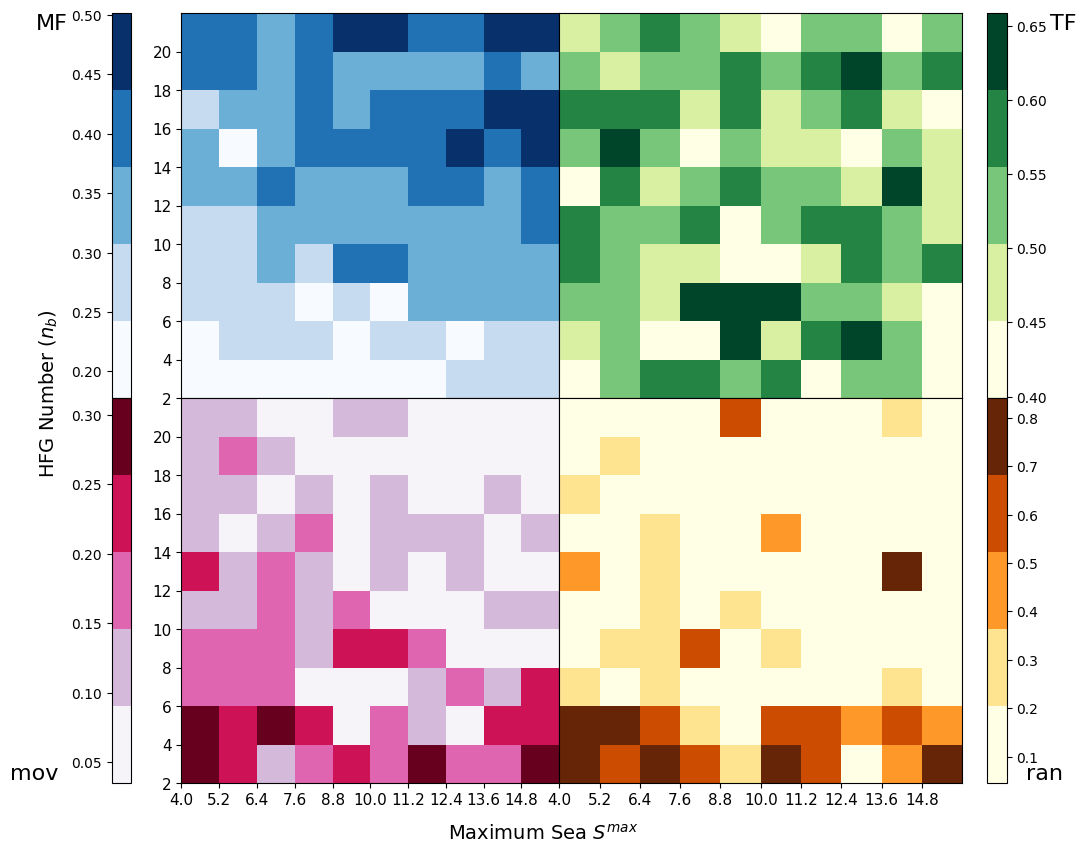
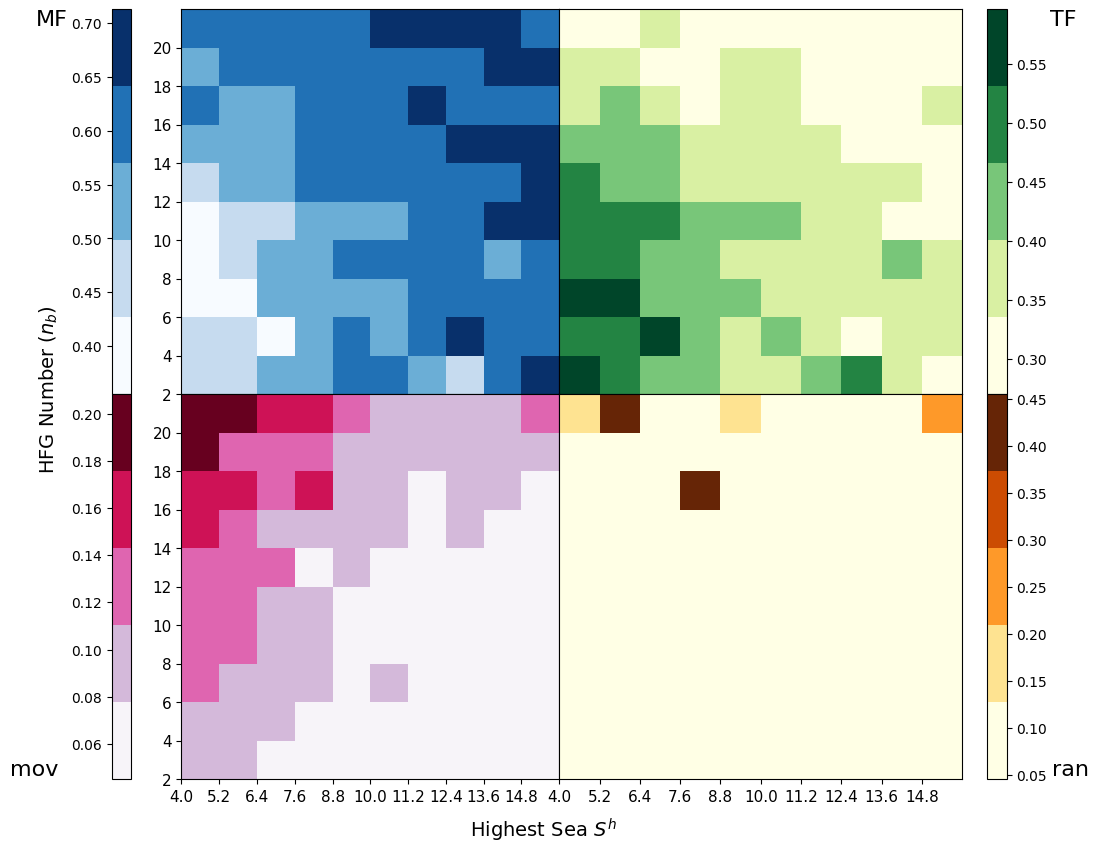
tiding up and debugging triangle plot

diff --git a/scripts/triangular_plot.py b/scripts/triangular_plot.py
@@ -8,20 +8,87 @@ import matplotlib.cm as cm
 import resource_movement_grids as rmg
 import itertools
 
-def prepare_gridPlot(ax, lim, M, which_par):
+def prepare_gridPlot(ax, lim, which_pars, i, j, ii):
 
-    max_matrice = max(map(max, M))
-    min_matrice = min(map(min, M))
-  
-    '''
-    if which_par == 'land_productivity':
+
+    if which_pars[0] == 'land_productivity':
+        y =  np.arange(lim.min_land_prod, lim.max_land_prod, lim.prod_step)
+        
+        ny = y.shape[0]
+        n_ylabels = len(y)-1
+        step_y = int(ny / (n_ylabels - 1))
+        y_positions = np.arange(0, ny, step_y )
+        float_formatter = "{:.2f}".format
+        np.set_printoptions(formatter={'float_kind':float_formatter})
+        y_labels = y[::step_y]
+        for i,yy in enumerate(y):
+            y_labels[i] = "{:.2f}".format(yy)
+
+    elif which_pars[0] == 'high_land':
+        y =  np.arange(lim.high_land_min, lim.high_land_max, lim.Lhigh_step)
+
+        ny = y.shape[0]
+        n_ylabels = len(y)-1
+        step_y = int(ny / (n_ylabels - 1))
+        y_positions = np.arange(0, ny, step_y )
+        y_labels = y[::step_y]
+
+    elif which_pars[0] == 'tidal_deluge': 
+        y =  np.arange(lim.min_tidal_deluge, lim.max_tidal_deluge, lim.tidal_deluge_step)
+
+        ny = y.shape[0]
+        n_ylabels = len(y)-1
+        step_y = int(ny / (n_ylabels - 1))
+        y_positions = np.arange(0, ny, step_y )
+        float_formatter = "{:.2f}".format
+        np.set_printoptions(formatter={'float_kind':float_formatter})
+        y_labels = y[::step_y]
+        for i,yy in enumerate(y):
+            y_labels[i] = "{:.2f}".format(yy)
+
+    elif which_pars[0] == 'high_sea':    
+        y =  np.arange(lim.high_sea_min, lim.high_sea_max, lim.high_sea_step)
+
+        ny = y.shape[0]
+        n_ylabels = len(y)-1
+        step_y = int(ny / (n_ylabels - 1))
+        y_positions = np.arange(0, ny, step_y )
+        float_formatter = "{:1f}".format
+        np.set_printoptions(formatter={'float_kind':float_formatter})
+        y_labels = y[::step_y]
+        for i,yy in enumerate(y):
+            y_labels[i] = "{:1f}".format(yy)
+
+    elif which_pars[0] == 'burners_number':
+        y =  np.arange(lim.min_consumers, lim.max_consumers, lim.con_step)
+
+        ny = y.shape[0]
+        n_ylabels = len(y)-1
+        step_y = int(ny / (n_ylabels - 1))
+        y_positions = np.arange(0, ny, step_y )
+        y_labels = y[::step_y]
+
+    else:
+        print('Error: unknown parameter')
+        return
+    
+    ax.yaxis.set_label_position("right")
+    ax.yaxis.tick_right()
+
+    if which_pars[1] == 'land_productivity':
         x =  np.arange(lim.min_land_prod, lim.max_land_prod, lim.prod_step)
-    elif which_par == 'high_land':
+    elif which_pars[1] == 'high_land':
         x =  np.arange(lim.high_land_min, lim.high_land_max, lim.Lhigh_step)
-    elif which_par == 'tidal_deluge': 
+    elif which_pars[1] == 'tidal_deluge': 
         x =  np.arange(lim.min_tidal_deluge, lim.max_tidal_deluge, lim.tidal_deluge_step)
-    elif which_par == 'high_sea':    
+    elif which_pars[1] == 'high_sea':    
         x =  np.arange(lim.high_sea_min, lim.high_sea_max, lim.high_sea_step)
+    elif which_pars[1] == 'burners_number':
+        x =  np.arange(lim.min_consumers, lim.max_consumers, lim.con_step)
+    else:
+        print('Error: unknown parameter')
+        return
+        
 
     nx = x.shape[0]
     n_labels = len(x)-1
@@ -33,21 +100,22 @@ def prepare_gridPlot(ax, lim, M, which_par):
     for i,xx in enumerate(x):
         x_labels[i] = "{:.2f}".format(xx)
 
-    #ticks_y = ticker.FuncFormatter(lambda y, pos: '{0:.1f}'.format(y))
-    #ax.yaxis.set_major_formatter(ticks_y)
+    ax.xaxis.set_label_position("top")
+    ax.xaxis.tick_top()
 
-    y =  np.arange(lim.min_consumers, lim.max_consumers, lim.con_step)
-    ny = y.shape[0]
-    n_ylabels = len(y)-1
-    step_y = int(ny / (n_ylabels - 1))
-    y_positions = np.arange(0, ny, step_y )
-    y_labels = y[::step_y]
-    #ticks_y = ticker.FuncFormatter(lambda y, pos: '{0:.1f}'.format(y))
-    #ax.yaxis.set_major_formatter(ticks_y)
-    '''
 
-    ax.set_xticks([])
-    ax.set_yticks([])
+    ax.set_yticks(y_positions, y_labels)
+    ax.set_xticks(x_positions, x_labels, rotation=90, ha='left')
+    
+
+    if i < 10 :#
+        #ax.set_xticks([])
+        ax.set_yticks([])
+
+    if ii > 3:#
+        print ('iiiii', ii)
+        ax.set_xticks([])
+
    
     return ax
 
@@ -77,7 +145,7 @@ def triangle_plotSeaLandJumps(par, lim, nom, which_tria):
     all_pairs = list(itertools.combinations(par.par_names, 2))
     
     num_matrices = int(len(all_pairs)/2)
-    fig, axes = plt.subplots(num_matrices - 1, num_matrices - 1, figsize=(12, 10), constrained_layout=True)
+    fig, axes = plt.subplots(num_matrices - 1, num_matrices - 1, figsize=(12, 10))#, constrained_layout=True
     
     cmaps = { 'MF':cm.get_cmap('Blues', 5), 'TF':cm.get_cmap('YlGn', 5), 'mov':cm.get_cmap('PuRd', 5) ,'rad':cm.get_cmap('YlOrBr', 5) }
     which_ind = {'MF':0, 'TF':1, 'mov':2, 'rad':3}
@@ -91,19 +159,19 @@ def triangle_plotSeaLandJumps(par, lim, nom, which_tria):
         for j in range(i + 1, num_matrices):
             # Get the current subplot
             ax = axes[i, j - 1] if j - 1 < len(axes[i]) else None
-            print('we are in pair index', ii)
+            
             if ax:
+                print('we are in pair index', ii)
                 # Load data for the parameter pair
                 print ('Loading data for',   all_pairs[ii])
                 which_pars = all_pairs[ii]
                 save_name = rmg.name_files(par, lim, which_pars)
                 Mats = np.load(par.data_dir + nom + '_' + save_name, allow_pickle=True)
                 
-                ax = prepare_gridPlot(ax, lim, Mats[which_ind[which_tria]], which_pars)
+                ax = prepare_gridPlot(ax, lim, which_pars, i, j-1, ii)
                 normalize = matplotlib.colors.Normalize(vmin=min_matrice, vmax=max_matrice)
                 mesh = ax.pcolormesh(Mats[which_ind[which_tria]], cmap = cmaps[which_tria], norm = normalize)
-                fig.colorbar(mesh)
-                #plt.xticks(x_positions, x_labels)
+
             else:
                 # Hide unused subplots
                 axes[i, j - 1].axis('off')
@@ -114,10 +182,18 @@ def triangle_plotSeaLandJumps(par, lim, nom, which_tria):
         for j in range(i):
             axes[i, j].axis('off')
 
+
+
     # Adjust layout and show the plot
+    
+    #fig.subplots_adjust(right=0.8)
+    cbar_ax = fig.add_axes([0.94, 0.15, 0.015, 0.7])
+    fig.colorbar(mesh, cax=cbar_ax)
     fig.subplots_adjust(wspace=0, hspace=0)
+
+
     string_name_file = './' + par.plots_dir + 'Triangle_plot_' + which_tria + nom +'.png'
-    plt.savefig(string_name_file,  bbox_inches = 'tight')
+    plt.savefig(string_name_file,   bbox_inches = 'tight')#,
 
 
 

diff --git a/scripts/resource_movement_grids.py b/scripts/resource_movement_grids.py
@@ -89,7 +89,7 @@ def call_model(par, consumers_number,  chang_par, which_par):#land_productivity 
     #sim = mc.constants()
 
     #high_land, high_sea, land_vector, sea_vector = mc.create_n_inisialise_landscapes(par)
-        
+    par = cfg.par()
     par.n_consumers = consumers_number
     
     if which_par == 'land_productivity':
@@ -110,9 +110,10 @@ def call_model(par, consumers_number,  chang_par, which_par):#land_productivity 
     
     return norm_burned_land, norm_burned_sea, norm_movements, norm_rad
 
-def call_models(par, chang_pars, which_pars):#land_productivity ):
+def call_models(chang_pars, which_pars):#land_productivity ):
     
     for c, w in zip(chang_pars, which_pars):
+        par = cfg.par()
         if w == 'land_productivity':
             par.land_productivity = c
         elif w == 'high_land':
@@ -134,17 +135,18 @@ def call_models(par, chang_pars, which_pars):#land_productivity ):
     return norm_burned_land, norm_burned_sea, norm_movements, norm_rad
 
 
-def run_the_grids(par, change_pars, which_pars):
+def run_the_grids(change_pars, which_pars):
 
     sea_consumption_matrix  = np.zeros( (len(change_pars[0]), len(change_pars[1])  ) ) 
     land_consumption_matrix  = np.zeros( (len(change_pars[0]), len(change_pars[1])  ) ) 
     movements = np.zeros((len(change_pars[0]), len(change_pars[1])  )) 
     radius = np.zeros((len(change_pars[0]), len(change_pars[1])  ))
     
+    
     for j, c1 in enumerate(change_pars[0]):
-        #print ('we are in gridssss', j, c1) 
+        print ('we are in gridssss', j, c1) 
         for k, c2 in enumerate(change_pars[1]):
-            l, s, m, r = call_models( par, [c1, c2], which_pars)
+            l, s, m, r = call_models( [c1, c2], which_pars)
             sea_consumption_matrix[j,k] = s
             land_consumption_matrix[j,k] = l
             movements[j,k] = m
@@ -250,7 +252,7 @@ def run_n_save_quadMats(lim, par, name, which_pars):
 
     change_pars  = generate_grids(lim, which_pars)
     matrix_sea_consumption, matrix_land_consumption, matrix_jumps, matrix_radius =\
-          run_the_grids(par, change_pars, which_pars)
+          run_the_grids(change_pars, which_pars)
     Mats = [matrix_sea_consumption, matrix_land_consumption, matrix_jumps, matrix_radius/par.length]
     
     save_name = name_files(par, lim, which_pars)
@@ -269,11 +271,7 @@ def run_n_save_all_pairs(lim, par, name):
         run_n_save_quadMats(lim, par, name, list(pair))
 
 
-def load_n_plot_quadMats(par, lim, name, which_pars):
-    save_name = name_files(par, lim, which_pars)
-    Mats = np.load(par.data_dir + name + '_' + save_name, allow_pickle=True)
-    
-    pf.quad_plotSeaLandJumps(par, lim, Mats, name, which_pars[1])
+
     
 #python scripts/resource_movement_grids.py name tidal_deluge
 def main():
@@ -281,7 +279,6 @@ def main():
     start  = time.perf_counter() 
 
     name = sys.argv[1]
-    which_par = sys.argv[2]
 
     lim = cfg.limits()
     par = cfg.par()
@@ -289,17 +286,24 @@ def main():
     if not os.path.exists(par.plots_dir):
         os.makedirs(par.plots_dir)
     
-    #consumers_parameter, change_par  = generate_grid(lim, which_par)
-    #matrix_sea_consumption, matrix_land_consumption, matrix_jumps, matrix_radius = run_the_grid(par, consumers_parameter, change_par, which_par)
-    #Mats = [matrix_sea_consumption, matrix_land_consumption, matrix_jumps, matrix_radius/par.length]
-    #pf.quad_plotSeaLandJumps(par, lim, Mats, name, which_par)
+    consumers_parameter, change_par  = generate_grid(lim, par.which_par)
+    matrix_sea_consumption, matrix_land_consumption, matrix_jumps, matrix_radius = run_the_grid(par, consumers_parameter, change_par, par.which_par)
+    Mats = [matrix_sea_consumption, matrix_land_consumption, matrix_jumps, matrix_radius/par.length]
+    pf.quad_plotSeaLandJumps(par, lim, Mats, name, par.which_par)
+    pf.plot_land_resources_used(par, lim, Mats[1], name, par.which_par)
     
-    which_pars = ['tidal_deluge', 'high_sea' ]#
-    #run_n_save_quadMats(lim, par, name, which_pars)
+    which_pars = ['burners_number', 'high_land' ]#
+    run_n_save_quadMats(lim, par, name, which_pars)
     #run_n_save_all_pairs(lim, par, name)
-    #load_n_plot_quadMats(par, lim, name, which_pars)
+    save_name = name_files(par, lim, which_pars)
+    Mats = np.load(par.data_dir + name + '_' + save_name, allow_pickle=True)
+    pf.quad_plotSeaLandJumps(par, lim, Mats, name, par.which_par)
+   
+    #pf.quad_plotSeaLandJumps(par, lim, Mats, name, which_pars[1])
 
-    tp.triangle_plotSeaLandJumps(par, lim, name, 'MF')
+    
+
+    tp.triangle_plotSeaLandJumps(par, lim, name, 'TF')
     
     ##jDic1, Rdic1 = one_vector_runs(par, lim, lim.medium_tidal_deluge)
     ##jDic2, Rdic2 = one_vector_runs(par, lim, lim.high_tidal_deluge)

diff --git a/scripts/plots_functions.py b/scripts/plots_functions.py
@@ -249,13 +249,13 @@ def prerpare_plot(ax, lim, M, which_par):
         ax.set_xlabel("Land Productivity $L_{p}$")
         x =  np.arange(lim.min_land_prod, lim.max_land_prod, lim.prod_step)
     elif which_par == 'high_land':
-        ax.set_xlabel("Maximum Land $L^{max}$")
+        ax.set_xlabel("Highest Land $L^{h}$")
         x =  np.arange(lim.high_land_min, lim.high_land_max, lim.Lhigh_step)
     elif which_par == 'tidal_deluge': 
         ax.set_xlabel("Tidal Deposition $S_{d}$")
         x =  np.arange(lim.min_tidal_deluge, lim.max_tidal_deluge, lim.tidal_deluge_step)
     elif which_par == 'high_sea':    
-        ax.set_xlabel("Maximum Sea $S^{max}$")
+        ax.set_xlabel("Highest Sea $S^{h}$")
         x =  np.arange(lim.high_sea_min, lim.high_sea_max, lim.high_sea_step)
     
     max_matrice = max(map(max, M))
@@ -286,7 +286,7 @@ def prerpare_plot(ax, lim, M, which_par):
     #ticks_y = ticker.FuncFormatter(lambda y, pos: '{0:.1f}'.format(y))
     #ax.yaxis.set_major_formatter(ticks_y)
 
-    return max_matrice, min_matrice, x_positions, x_labels, y_positions, y_labels
+    return ax, max_matrice, min_matrice, x_positions, x_labels, y_positions, y_labels
 
 
 def prerpare_TriPlot(ax, lim, M, which_par, num):
@@ -298,11 +298,11 @@ def prerpare_TriPlot(ax, lim, M, which_par, num):
     if which_par == 'land_productivity' and (num == 0 or num == 2):
         ax.set_xlabel("Land Productivity $L_{p}$", fontsize=fs)
     elif which_par == 'high_land' and (num == 0 or num == 2):
-        ax.set_xlabel("Maximum Land $L^{max}$" , fontsize=fs)
+        ax.set_xlabel("Highest Land $L^{h}$" , fontsize=fs)
     elif which_par == 'tidal_deluge' and (num == 0 or num == 2): 
         ax.set_xlabel("Tidal Deposition $S_{d}$", fontsize=fs)
     elif which_par == 'high_sea' and (num == 0 or num == 2):    
-        ax.set_xlabel("Maximum Sea $S^{max}$" , fontsize=fs)
+        ax.set_xlabel("Highest Sea $S^{h}$" , fontsize=fs)
 
     if which_par == 'land_productivity':
         x =  np.arange(lim.min_land_prod, lim.max_land_prod, lim.prod_step)
@@ -538,16 +538,16 @@ def quad_plotSeaLandJumps(par, lim, Mats, nom, which_par):
     if which_par == 'land_productivity':
         fig.text(v, h, "Land Productivity $L_{p}$", ha='center', va='center', fontsize=fs)
     elif which_par == 'high_land':
-        fig.text(v, h, "Maximum Land $L^{max}$", ha='center', va='center',  fontsize=fs)
+        fig.text(v, h, "Highest Land $L^{h}$", ha='center', va='center',  fontsize=fs)
     elif which_par == 'tidal_deluge': 
         fig.text(v, h, "Tidal Deposition $S_{d}$", ha='center', va='center',  fontsize=fs)
     elif which_par == 'high_sea':    
-        fig.text(v, h, "Maximum Sea $S^{max}$", ha='center', va='center',  fontsize=fs)
+        fig.text(v, h, "Highest Sea $S^{h}$", ha='center', va='center',  fontsize=fs)
     
     fig.text(0.11, 0.88, "MF",  fontsize=fs+2, verticalalignment='top', horizontalalignment='left')
     fig.text(0.91, 0.88, "TF",  fontsize=fs+2, verticalalignment='top', horizontalalignment='right')
     fig.text(0.09, 0.11, "mov",  fontsize=fs+2, verticalalignment='bottom', horizontalalignment='left')
-    fig.text(0.90, 0.11, "ran",  fontsize=fs+2, verticalalignment='bottom', horizontalalignment='right')
+    fig.text(0.92, 0.11, "ran",  fontsize=fs+2, verticalalignment='bottom', horizontalalignment='right')
 
     # Adjust layout and show the plot
     fig.subplots_adjust(wspace=0, hspace=0)

diff --git a/scripts/config.py b/scripts/config.py
@@ -8,12 +8,12 @@ class par:
     high_land = 5#30 # maximum amount for the maximum capacity land cell, in burning rate units. 
     high_sea = 5#initial condition on land combustible, in burning rate units. 
     
-    land_productivity = 0.05# constant for the productivity of land, in burning rate units.  
+    land_productivity = 0.1# constant for the productivity of land, in burning rate units.  
     tidal_deluge = 0.33 #amount of recovery of sea fuel, multiplictive factor of intitial conditions 
 
     '''configuration of the simulation'''
     length = 44#length of the land area in cells
-    time = 133#max time 
+    time = 333#max time 
     runs = 5
     t_step_lenth = 0.5 # lenth of temporal steps
 
@@ -28,7 +28,8 @@ class par:
 
     plots_dir = './plots_costal_resources/'
     data_dir = './data_costal_resources/'#'../data_matrices/'
-    par_names = [ 'burners_number', 'tidal_deluge', 'high_sea', 'land_productivity', 'high_land']#
+    which_par = 'land_productivity'#'high_land'#'burners_number'#'high_sea'#'tidal_deluge'#'land_productivity'
+    par_names = [ 'burners_number', 'tidal_deluge',  'land_productivity', 'high_sea', 'high_land']#
     
 
 '''limits of the simulation'''
@@ -39,11 +40,11 @@ class limits:
 
     min_land_prod = 0.01
     max_land_prod = 0.22
-    prod_step = 0.022
+    prod_step = 0.044
 
     high_land_min = 2
     high_land_max = 16
-    Lhigh_step = 1.3
+    Lhigh_step = 2.3
 
     min_tidal_deluge = 0.1
     max_tidal_deluge = 0.4
